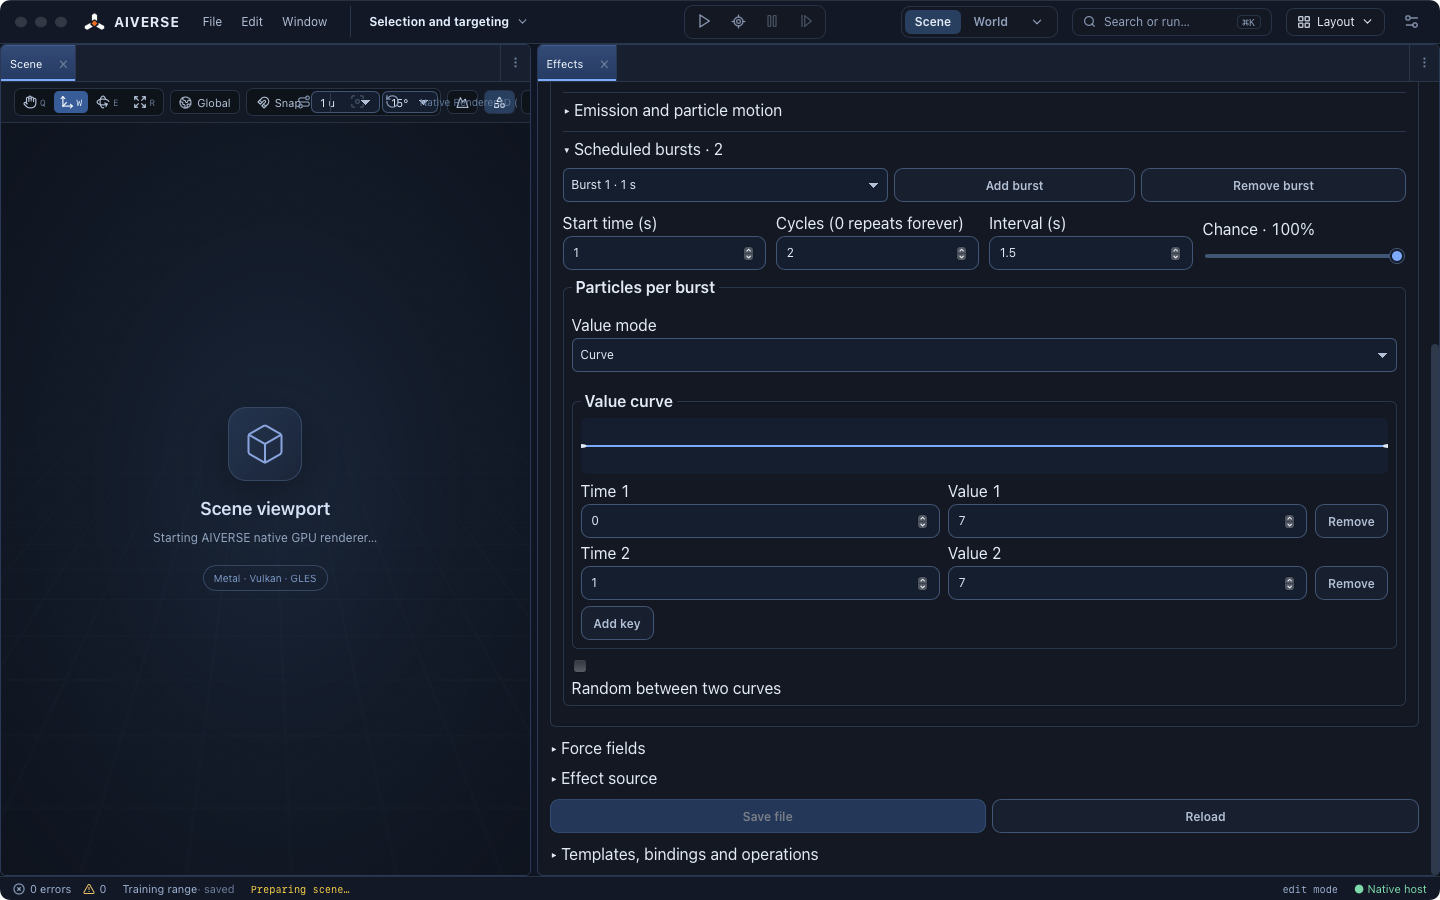
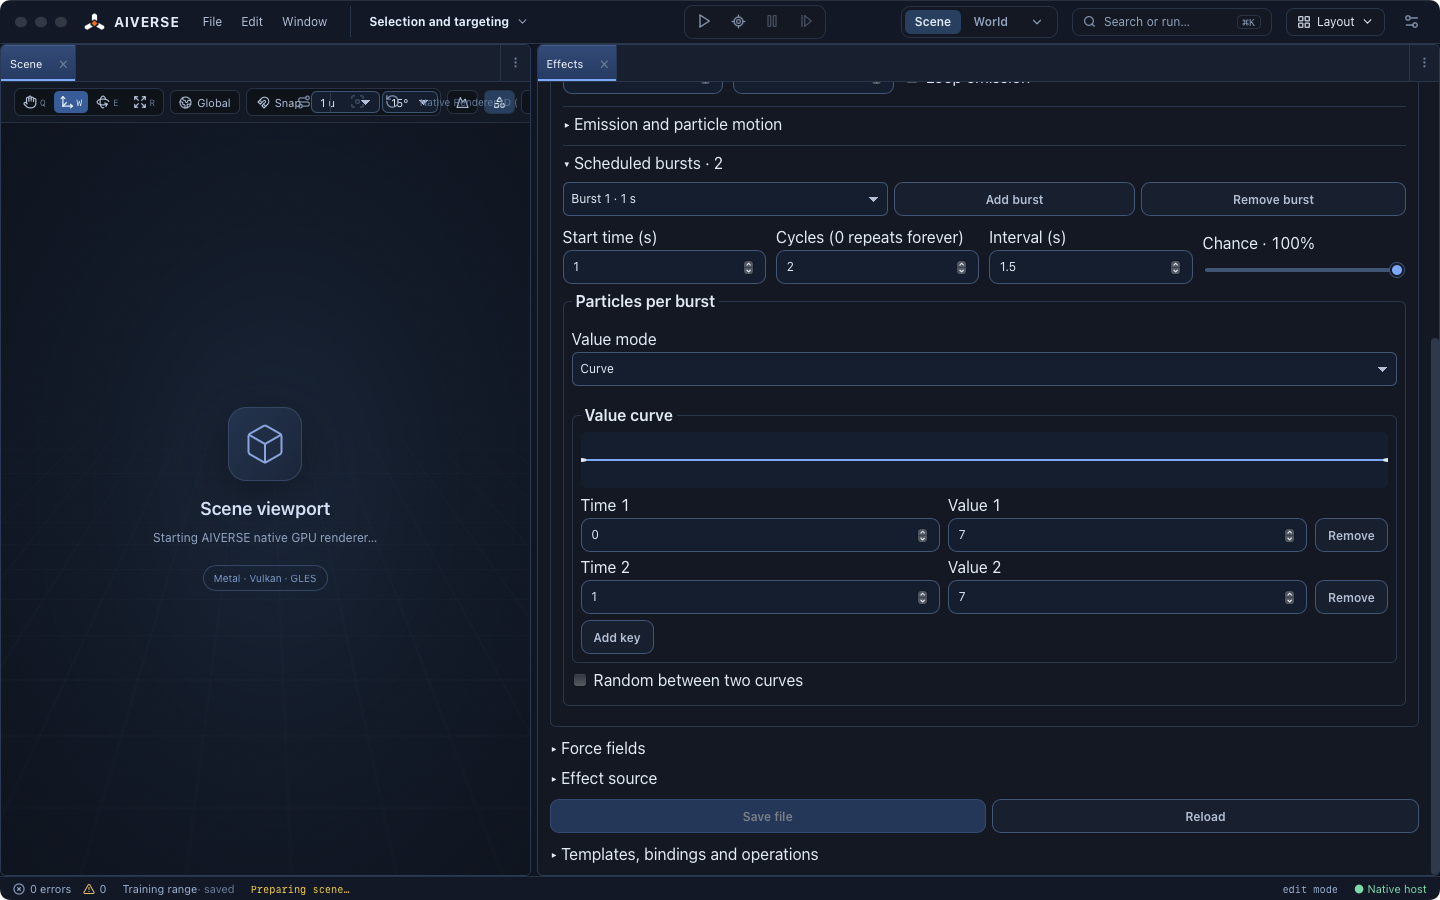
Record final Mac Studio burst panel verification

diff --git a/docs/agent-handoffs/studio-project-catalog-initial.md b/docs/agent-handoffs/studio-project-catalog-initial.md
@@ -84,3 +84,5 @@ Force fields verified on a00f24fb4 in the macOS app: draft-only changes, signed 
 Verified native field response at 36f006a8b. The same stationary emitter and directional field produced a wider gold particle footprint after changing only externalForces from 0 to 1 and replaying. Native Mac QA supplied the measured panel bounds because WebKit was hidden on the locked desktop. Source effect and map matched their original bytes. Evidence docs/evidence/studio-effect-field-metal-response.json and docs/evidence/studio-project-catalog/force-field-{zero,influence}.png. Next: remaining emitter modules.
 
 Scheduled bursts verified on a22c0c9d6. Typecheck, Vite and 299 existing web tests passed. Mac Studio preserved a compact time/count tuple during time edits and its inline comment when enabling cycles, persisted the authored curve and probability, and discarded draft deletion. With loop disabled, native Metal playback reported zero particles before 1 s, seven after 1 s and fourteen after 2.5 s. A separate 0% burst produced none. QA supplied the measured viewport rectangle while WKWebView was hidden. Evidence docs/evidence/studio-effect-burst-schedule.json and docs/evidence/studio-project-catalog/effect-burst-schedule.png. Next: shape geometry and sampling controls.
+
+Burst panel layout at 2ac3d48df verified by repeating both macOS desktop phases, including the 0/7/14 native particle count. Updated docs/evidence/studio-project-catalog/effect-burst-schedule.png and docs/evidence/studio-effect-burst-panel.json. Next: conditional shape geometry and sampling controls.

diff --git a/docs/handoff/studio-html5/studio-only-editor.md b/docs/handoff/studio-html5/studio-only-editor.md
@@ -699,3 +699,5 @@ Verified native field response at 36f006a8b. The same stationary emitter and dir
 Effects emission stage: schedule timed particle bursts in the selected emitter, retaining compact [time,count] and full sources and using the range/curve editor for the particle count. Verify save/reopen and playback.
 
 Scheduled bursts verified on a22c0c9d6. Typecheck, Vite and 299 existing web tests passed. Mac Studio preserved a compact time/count tuple during time edits and its inline comment when enabling cycles, persisted the authored curve and probability, and discarded draft deletion. With loop disabled, native Metal playback reported zero particles before 1 s, seven after 1 s and fourteen after 2.5 s. A separate 0% burst produced none. QA supplied the measured viewport rectangle while WKWebView was hidden. Evidence docs/evidence/studio-effect-burst-schedule.json and docs/evidence/studio-project-catalog/effect-burst-schedule.png. Next: shape geometry and sampling controls.
+
+Burst panel layout at 2ac3d48df verified by repeating both macOS desktop phases, including the 0/7/14 native particle count. Updated docs/evidence/studio-project-catalog/effect-burst-schedule.png and docs/evidence/studio-effect-burst-panel.json. Next: conditional shape geometry and sampling controls.
